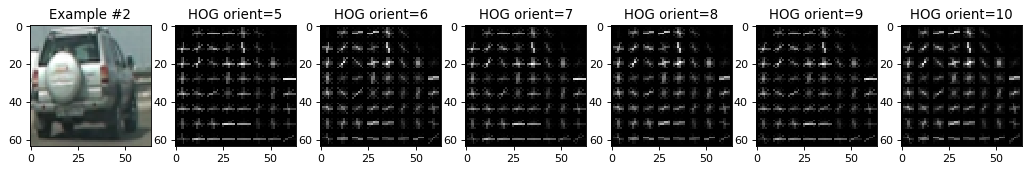
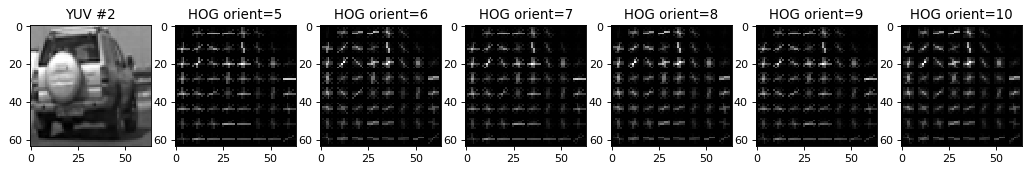
:memo: add README.md (writeup).

diff --git a/README.md b/README.md
@@ -10,100 +10,136 @@ The goals / steps of this project are the following:
 * Run your pipeline on a video stream (start with the test_video.mp4 and later implement on full project_video.mp4) and create a heat map of recurring detections frame by frame to reject outliers and follow detected vehicles.
 * Estimate a bounding box for vehicles detected.
 
+My project includes the following files:
+
+* ```README.md``` writeup summarizing the results
+* ```Vehicle_Detection.ipynb``` a jupyter notebook with the vehicle detection pipeline
+* ```project_video_output.mp4``` containing the vehicle detection results
+
+
 [//]: # (Image References)
-[image1]: ./examples/car_not_car.png
-[image2]: ./examples/HOG_example.jpg
-[image3]: ./examples/sliding_windows.jpg
-[image4]: ./examples/sliding_window.jpg
-[image5]: ./examples/bboxes_and_heat.png
-[image6]: ./examples/labels_map.png
-[image7]: ./examples/output_bboxes.png
-[video1]: ./project_video.mp4
+[img2]: ./examples/ex_hog_car.png
+[img3]: ./examples/ex_hog_nocar.png
+[img4]: ./examples/ex_hog_car_pixel_per_cell_16x16.png
+[img5]: ./examples/ex_sliding_window_det1.png
+[img6]: ./examples/ex_sliding_window_det2.png
+[img7]: ./examples/ex_sliding_window_det3.png
+[img8]: ./examples/ex_sliding_window_det4.png
+[img9]: ./examples/ex_sliding_windows_search.png
+[img10]: ./examples/ex_result.png
+[video1]: ./project_video_output.mp4
+ 
 
-## [Rubric](https://review.udacity.com/#!/rubrics/513/view) Points
-### Here I will consider the rubric points individually and describe how I addressed each point in my implementation.  
+### 1. Histogram of Oriented Gradients (HOG)
 
-### Histogram of Oriented Gradients (HOG)
+#### 1.1 Extracting HOG features from the training images.
 
-#### 1. Explain how (and identify where in your code) you extracted HOG features 
-from the training images.
+I started by exploring different color spaces and different `skimage.hog()` parameters for the random 
+samples of `vehicle` and `non-vehicle` classes. (`orientations`, `pixels_per_cell`, and `cells_per_block`).  From each 
+of the two classes, I displayed them to get a feel for what the `skimage.hog()` output looks like.
 
-The code for this step is contained in the first code cell of the IPython notebook 
-(or in lines # through # of the file called `some_file.py`).  
+Here is an example using the `YUV` color space and HOG parameters of  `pixels_per_cell=(8, 8)` and `cells_per_block=(2, 2)` with orientations in the range 
+of `[5, 10]`,:
 
-I started by reading in all the `vehicle` and `non-vehicle` images.  Here is an example 
-of one of each of the `vehicle` and `non-vehicle` classes:
+![alt text][img2]
+![alt text][img3]
 
-![alt text][image1]
+The code for this step is contained in the section 2 of the IPython notebook.  
 
-I then explored different color spaces and different `skimage.hog()` parameters 
-(`orientations`, `pixels_per_cell`, and `cells_per_block`).  I grabbed random images 
-from each of the two classes and displayed them to get a feel for what the `skimage.hog()` 
-output looks like.
+#### 1.2 HOG parameters.
 
-Here is an example using the `YCrCb` color space and HOG parameters of `orientations=8`, 
-`pixels_per_cell=(8, 8)` and `cells_per_block=(2, 2)`:
+I tried various combinations of parameters, ended up choosing the following:
 
+| HOG Parameter   | Value  | Reason |
+|-----------------|--------|--------|
+| pixels_per_cell | (8, 8) | Noticed that high caused deformation in the shape of the HOG that could influence classification |       
+| cells_per_block | (2, 2) | Arbitrary choice, based on good fit for the other two parameters |
+| orientation     | 8      | The chosen value is a some sort of middle point. High values of orientation cause the vectors to differ in direction more often, thus not resembling the real shape of the object. Low values of orientation caused the vectors to agree more often in the direction, both extremes create classification issues. 
 
-![alt text][image2]
+Example of the deformation caused by ```pixels_per_cell=(16, 16)```:   
 
-#### 2. Explain how you settled on your final choice of HOG parameters.
+![alt text][img4]
 
-I tried various combinations of parameters and...
+### 2. Training the model
 
-#### 3. Describe how (and identify where in your code) you trained a classifier using your selected HOG features (and color features if you used them).
+I trained a linear SVM using the following parameters:
 
-I trained a linear SVM using...
+```python
+color_space = 'YUV' # Can be RGB, HSV, LUV, HLS, YUV, YCrCb
+orient = 8  # HOG orientations
+pix_per_cell = 8 # HOG pixels per cell
+cell_per_block = 2 # HOG cells per block
+hog_channel = 'ALL' # Can be 0, 1, 2, or "ALL"
+spatial_size = (16, 16) # Spatial binning dimensions
+hist_bins = 32    # Number of histogram bins
+spatial_feat = True # Spatial features on or off
+hist_feat = True # Histogram features on or off
+hog_feat = True # HOG features on or off
+y_start_stop = [380, 656] # Min and max in y to search in slide_window()
+```
 
-### Sliding Window Search
+The code for this step is contained in the section 7 and 8 of the IPython notebook.
 
-#### 1. Describe how (and identify where in your code) you implemented a sliding window search.  How did you decide what scales to search and how much to overlap windows?
+### 3. Sliding Window Search
 
-I decided to search random window positions at random scales all over the image and came up with this (ok just kidding I didn't actually ;):
+I decided for the following search window configuration:
 
-![alt text][image3]
+| Window          | Scale  | Overlap Percentage   |
+|-----------------|--------|------------|
+| (380, 600)      | 1.0    | 0%         |
+| (400, 600)      | 1.5    | 90%        |
+| (420, 700)      | 3.0    | 40%        |
+ 
+As shown in the picture below:
 
-#### 2. Show some examples of test images to demonstrate how your pipeline is working.  What did you do to optimize the performance of your classifier?
+![alt text][img9]
 
-Ultimately I searched on two scales using YCrCb 3-channel HOG features plus spatially binned color and histograms of color in the feature vector, which provided a nice result.  Here are some example images:
+The criteria was simple, car in the horizon should look smaller, so the window scale 1.0. Cars near the camera should
+look bigger, thus the window scaling of 3.0. 
 
-![alt text][image4]
----
+Ultimately I searched on three scales using YUV 3-channels HOG features plus spatially binned color and histograms of 
+color in the feature vector, which provided a nice result. Here are some example images:
 
-### Video Implementation
+![alt text][img5]
+![alt text][img6]
+![alt text][img7]
+![alt text][img8]
 
-#### 1. Provide a link to your final video output.  Your pipeline should perform reasonably well on the entire project video (somewhat wobbly or unstable bounding boxes are ok as long as you are identifying the vehicles most of the time with minimal false positives.)
-Here's a [link to my video result](./project_video.mp4)
+### 4. False-positives
 
+To deal with false-positives two strategies were applied:
+ 
+* Overlapping bounding boxes: As show in the Sliding Window Search Section, when multiple overlapping bounding boxes 
+agree in a particular classification, many cases of false-positive go away by simply finding were the boxes does not agree.
 
-#### 2. Describe how (and identify where in your code) you implemented some kind of filter for false positives and some method for combining overlapping bounding boxes.
+* Average Frame Smoothing: By keeping record of the previous classify frames, I smoothed the heatmap by averaging it with
+the current frame, thus giving better prediction of the vehicle position.
 
-I recorded the positions of positive detections in each frame of the video.  From the positive 
-detections I created a heatmap and then thresholded that map to identify vehicle positions.  I then 
-used `scipy.ndimage.measurements.label()` to identify individual blobs in the heatmap.  I then 
-assumed each blob corresponded to a vehicle.  I constructed bounding boxes to cover the area of 
-each blob detected.  
+The code for this step is contained in the section 10 of the IPython notebook.
 
-Here's an example result showing the heatmap from a series of frames of video, the result of 
-`scipy.ndimage.measurements.label()` and the bounding boxes then overlaid on the last frame 
-of video:
+Here the resulting bounding boxes are drawn onto the last frame in the series:
 
-### Here are six frames and their corresponding heatmaps:
+![alt text][img10]
 
-![alt text][image5]
+Here's a [link to my video result](./project_video_output.mp4)
 
-### Here is the output of `scipy.ndimage.measurements.label()` on the integrated heatmap from all six frames:
-![alt text][image6]
+### 5. Further Work
 
-### Here the resulting bounding boxes are drawn onto the last frame in the series:
-![alt text][image7]
+Here I'll talk about where the pipeline might fail and how I might improve it if I were going to pursue 
+this project further:
 
+* My current approach does not work well with different lighting conditions, we need to take into consideration
+this kind of features.
 
+* The current approach just consider cars from the rear, It may fail with other orientations. The model should be trained
+with more data of cars in different orientations.
 
----
+* Since the name of the project is Vehicle Detection, and not Car Detection, currently the classier does not take into account 
+motorcycles, or any 2-wheels vehicle. This may not be classified for my program.
 
-### Discussion
+* My pipeline it's quite slow, takes one second to process one frame this is not feasible for production, further optimizations
+must be made to run this real-time in a car.
 
-#### 1. Briefly discuss any problems / issues you faced in your implementation of this project.  Where will your pipeline likely fail?  What could you do to make it more robust?
+* Engineering features is a daunting task, a better approach will be to applied deep learning so those features can be 
+learned from the data. A further task may be try vehicle detection with YOLO, SSD, etc. 
 
-Here I'll talk about the approach I took, what techniques I used, what worked and why, where the pipeline might fail and how I might improve it if I were going to pursue this project further.  
